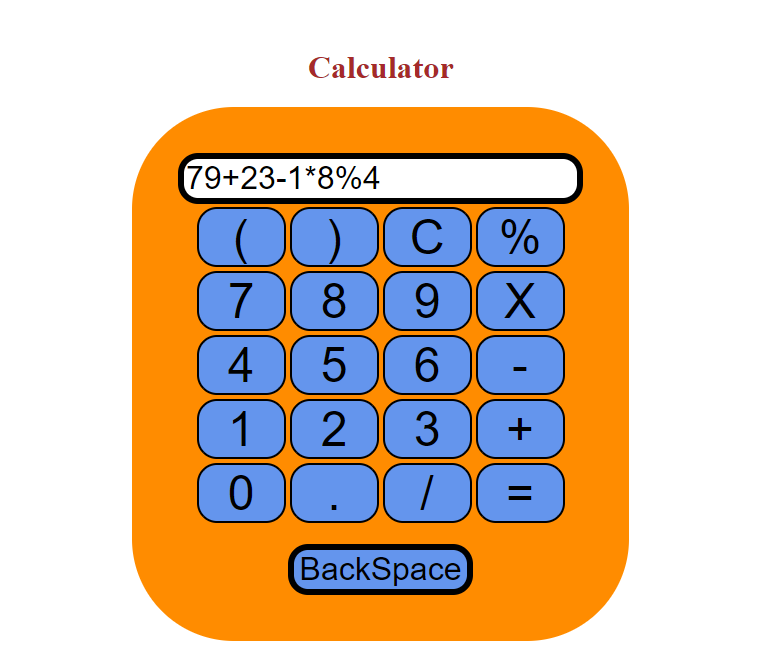
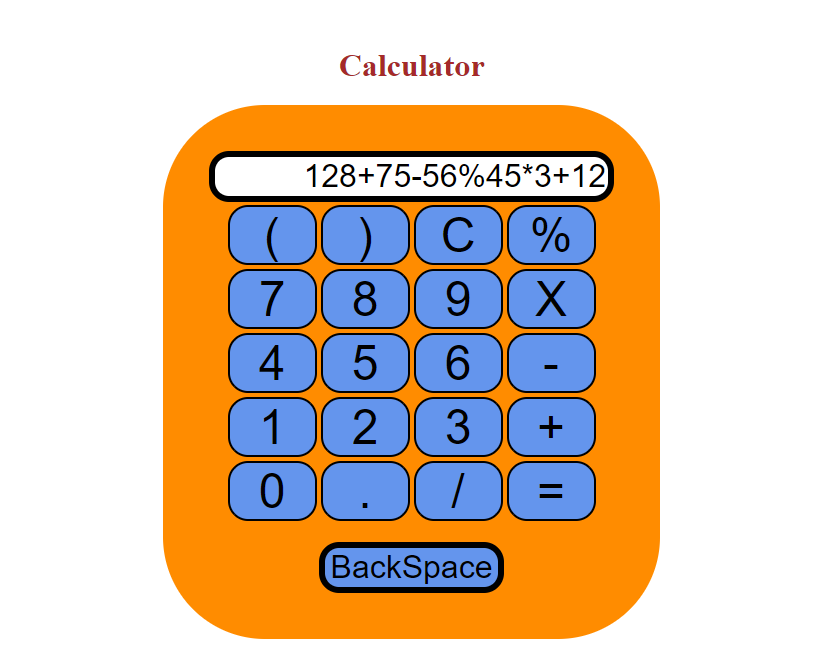
full completed

diff --git a/index.js b/index.js
@@ -12,6 +12,7 @@ for(item of buttons){
             buttonText='*';
             screenValue+=buttonText;
             screen.value=screenValue;
+           
         }
 
          else if(buttonText=='C'){
@@ -23,8 +24,6 @@ for(item of buttons){
            screen.value=eval(screenValue);
            
          }
-
-    
 
          else {
           screenValue=screen.value+buttonText;

diff --git a/index.html b/index.html
@@ -12,7 +12,7 @@
       <h1>Calculator</h1>
     
       <div class="calculator">
-        <input type="text" name="acreen" id="screen"  dir="rtl" />
+        <input type="text" name="acreen" id="screen"  style="text-align:right" />
       <table>
         <tr>
           <td><button>(</button></td>
